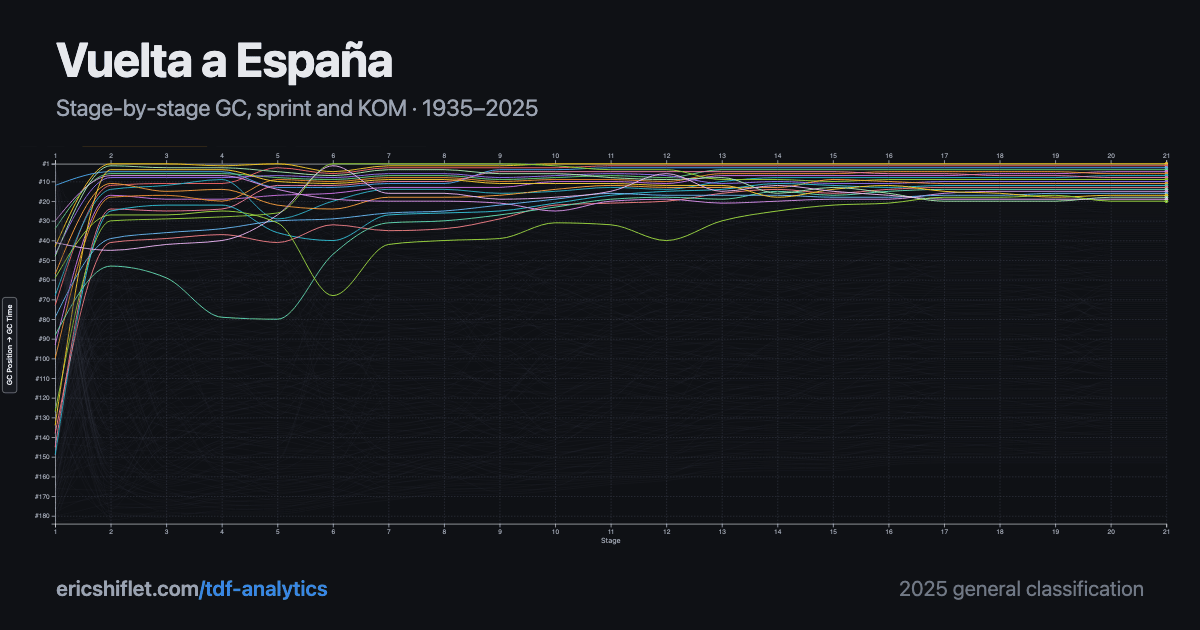
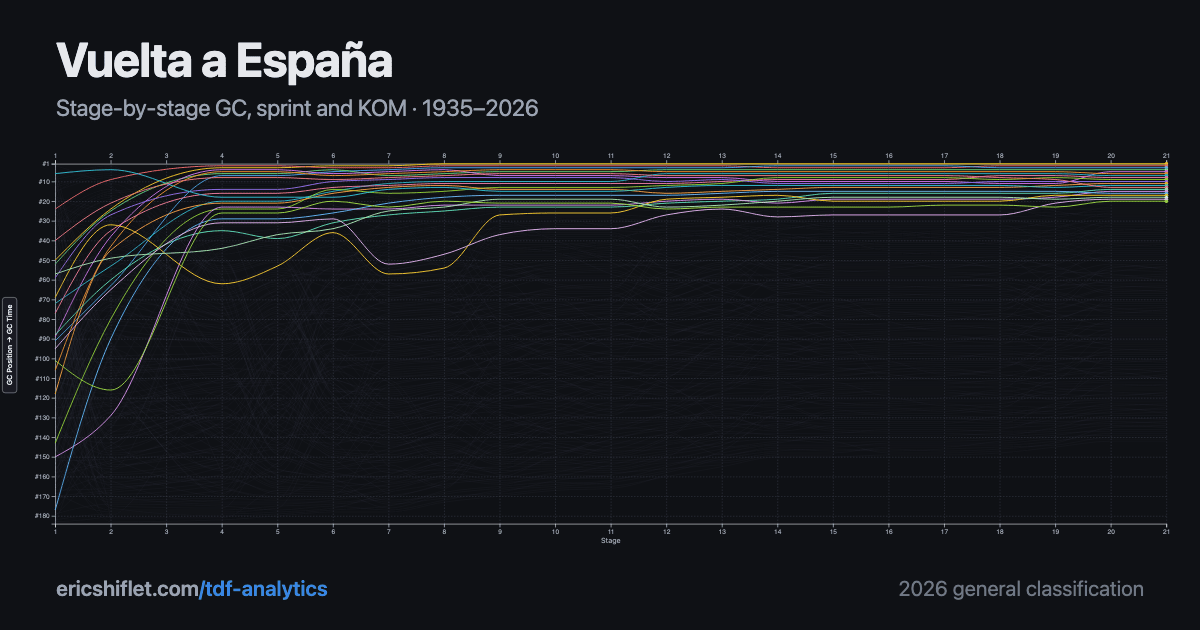
Re-render the Vuelta social card for 2026, and pin the alt to what it shows
og-vuelta.png showed the 2025 general classification. render-og-images.sh is
a manual step — it needs headless Chrome and a running dev server, so it is
deliberately outside `npm run build` — and nobody re-ran it when the 2026
Vuelta landed on 2026-09-14. That is the exact failure its own header comment
predicts: "re-run it by hand after a palette or chart change, or the cards
quietly keep showing the old design."

Re-rendered from the real 2026 chart, and the alt text moved to 2026 in the
same commit because it describes the picture and the picture changed. In the
previous commit I deliberately left that alt saying 2025, since it was then
accurate; re-rendering is what made it wrong.

THE SCRIPT TAKES A CARD NAME NOW: ./scripts/render-og-images.sh og-vuelta.
A card goes stale on its own schedule and re-rendering the other five to fix
one rewrites five committed binaries whose content did not change — Chrome's
antialiasing and pngquant's palette search are not bit-reproducible, so those
five would land in the diff as noise nobody could distinguish from a real
design change. An unknown name exits 1 and lists the six.

GRAVEL DELIBERATELY STILL RENDERS 2025: its 2026 season holds 4 races against
2025's 7, and a card is a picture of the archive at its best rather than its
most recent. A choice, not an oversight.

TestSocialCardAltMatchesTheCard compares the season each card is screenshotted
from against the season its alt claims — two hand-maintained files, neither
[…]

Changed region(s): [[0.0308, 0.2413, 0.925, 0.7238], [0.2158, 0.4825, 0.2467, 0.5127]]

diff --git a/pipeline/test_exports.py b/pipeline/test_exports.py
@@ -1148,3 +1148,74 @@ class TestLandingPageYearRanges(unittest.TestCase):
                     (first, last), (min(years), max(years)),
                     f"the {slug} landing page advertises {first}–{last} but "
                     f"the data covers {min(years)}–{max(years)}")
+
+
+class TestSocialCardAltMatchesTheCard(unittest.TestCase):
+    """The og:image alt must describe the season the card actually renders.
+
+    Two hand-maintained files have to agree and neither imports the other:
+    render-og-images.sh names the deep link each card is screenshotted from
+    (`og-vuelta|#vuelta/2026/stage/gc|...`), and race-page-meta.mjs holds the alt
+    text a screen reader is given for it. When the 2026 Vuelta landed, the card
+    still showed 2025 — and the alt was RIGHT to say 2025, because it described
+    the picture. Re-rendering the card made the alt wrong in the same instant.
+
+    Alt text that misdescribes its image is worse than none: it is the only
+    description a screen-reader user gets, and they have no way to notice.
+    """
+
+    @classmethod
+    def setUpClass(cls):
+        root = os.path.normpath(os.path.join(
+            os.path.dirname(os.path.abspath(__file__)), "..", "cycling-app"))
+        cls.script = os.path.join(root, "scripts", "render-og-images.sh")
+        cls.meta = os.path.join(root, "race-page-meta.mjs")
+
+    def rendered_year(self):
+        """{image filename: year the card is rendered from}."""
+        import re
+        with open(self.script, encoding="utf-8") as f:
+            src = f.read()
+        out = {}
+        for name, hash_ in re.findall(r'"(og-[\w-]+)\|#([^|]+)\|', src):
+            m = re.search(r"(\d{4})", hash_)
+            if m:
+                out[f"{name}.png"] = int(m.group(1))
+        return out
+
+    def alt_year(self):
+        """{image filename: year the alt text claims}."""
+        import re
+        with open(self.meta, encoding="utf-8") as f:
+            src = f.read()
+        out = {}
+        for body in re.findall(r"^  \w+: \{(.*?)^  \},", src, re.S | re.M):
+            img = re.search(r'image:\s*"([^"]+)"', body)
+            alt = re.search(r'alt:\s*"[^"]*?(\d{4})', body)
+            if img and alt:
+                out[img.group(1)] = int(alt.group(1))
+        return out
+
+    def test_the_parses_find_something(self):
+        """Both sides, or every assertion below passes on empty dicts.
+
+        Three alts name a season, not five: the classics and gravel cards are
+        described generically ("a one-day classics season"), which is a better
+        alt for a card whose depicted year is incidental AND cannot go stale.
+        Only the three Grand Tours name the year, because for them it is the
+        subject of the picture."""
+        self.assertGreaterEqual(len(self.rendered_year()), 5, self.rendered_year())
+        dated = self.alt_year()
+        self.assertEqual(set(dated), {"og-tour.png", "og-giro.png", "og-vuelta.png"},
+                         f"parsed {dated}")
+
+    def test_every_alt_names_the_season_its_card_renders(self):
+        rendered = self.rendered_year()
+        for image, year in sorted(self.alt_year().items()):
+            with self.subTest(image=image):
+                self.assertIn(image, rendered, "alt names a card the renderer "
+                                               "does not produce")
+                self.assertEqual(
+                    year, rendered[image],
+                    f"{image}: the alt text says {year} but the card is "
+                    f"screenshotted from {rendered[image]}")

diff --git a/ai-context.md b/ai-context.md
@@ -115,11 +115,29 @@ advertised range against the years actually exported. It parses the module
 rather than importing it (the module is JavaScript), and **a parse that finds
 nothing FAILS** — a silent no-op would reproduce exactly the gap it closes.
 
-**The og:image alt text was NOT changed and is not stale.** It describes the
-card, and `og-vuelta.png` really does show the 2025 general classification. The
-CARD is a separate staleness: `scripts/render-og-images.sh` is a manual step and
-nobody re-ran it when 2026 arrived, which is the failure mode its own
-documentation predicts.
+**The card was stale too, and is now re-rendered.** `og-vuelta.png` showed the
+2025 general classification because `scripts/render-og-images.sh` is a manual
+step that nobody re-ran when 2026 arrived — the failure its own documentation
+predicts. Re-rendered from the real 2026 chart; the alt text moved to 2026 in
+the same commit, because it describes the picture and the picture changed.
+
+**The script takes a card name now:** `./scripts/render-og-images.sh og-vuelta`.
+A card goes stale on its own schedule, and re-rendering the other five to fix
+one rewrites five committed binaries whose content did not change — Chrome's
+antialiasing and pngquant's palette search are not bit-reproducible, so they
+would land in the diff as noise indistinguishable from a real design change.
+
+**Gravel deliberately still renders 2025.** Its 2026 season holds 4 races
+against 2025's 7, and a card is a picture of the archive at its best, not its
+most recent. That is a choice, not an oversight.
+
+**Two tests hold this together.** `TestSocialCardAltMatchesTheCard` compares the
+season each card is screenshotted from against the season its alt text claims —
+two hand-maintained files, neither importing the other, that were correct only
+by coincidence. Alt text that misdescribes its image is worse than none: it is
+the only description a screen-reader user gets and they cannot notice it is
+wrong. Only the three Grand Tour alts name a year; the classics and gravel alts
+describe their card generically, which is a better alt AND cannot rot.
 
 ## A season-level bib stopped moving on its own (2026-09-19)
 
